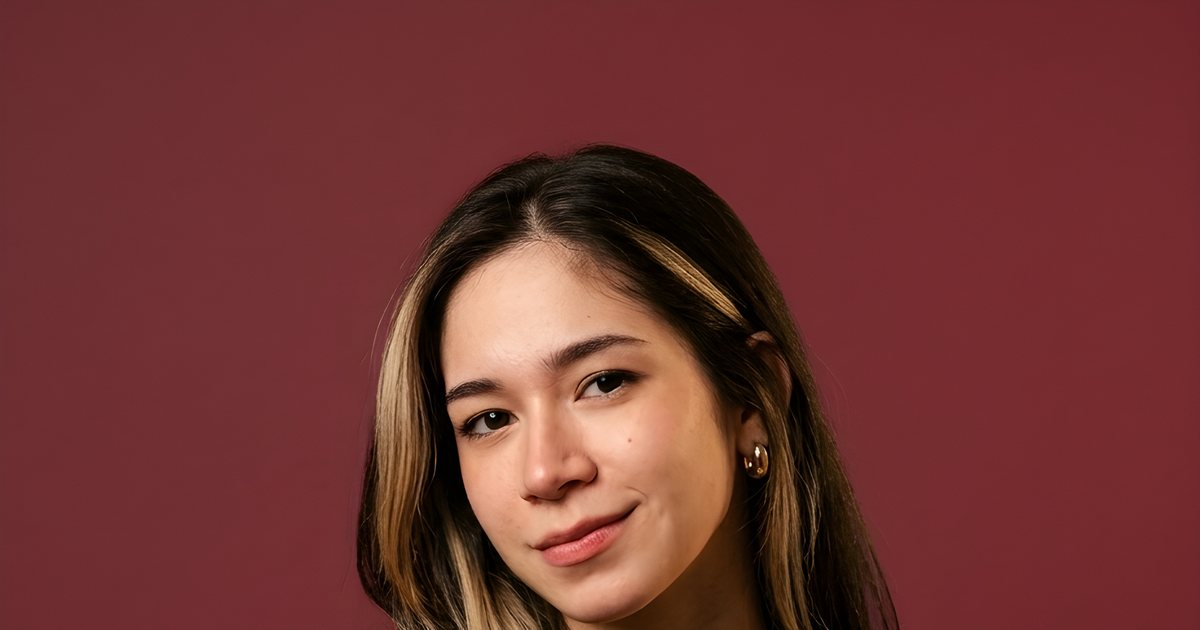
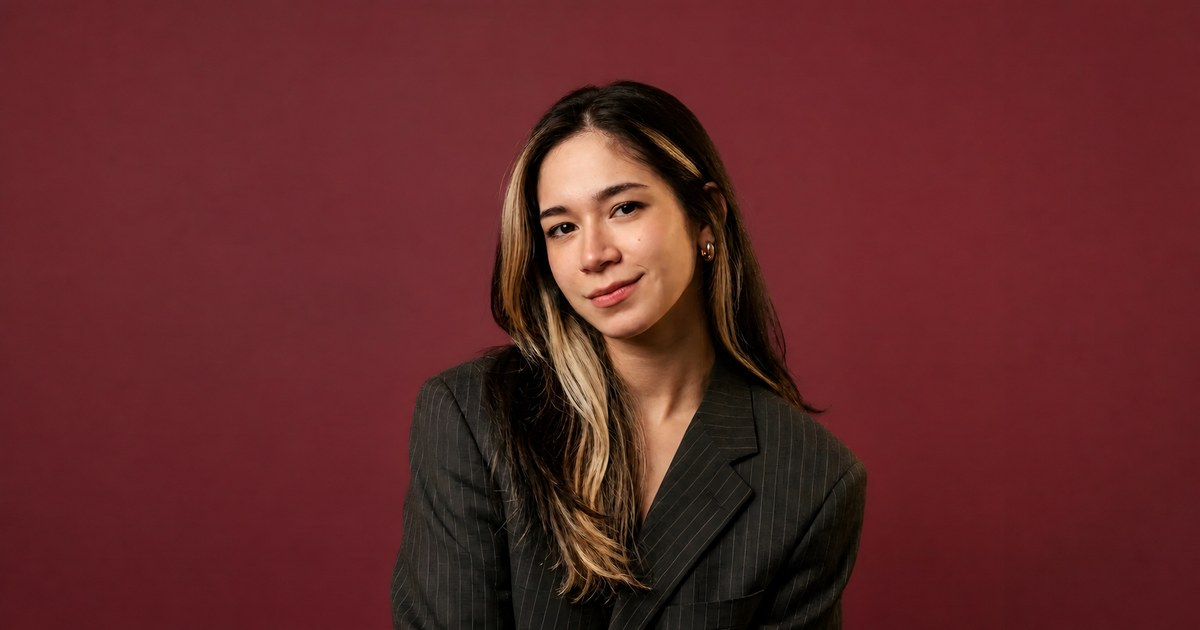
feat(seo): optimize WhatsApp sharing preview

Changed region(s): [[0.2775, 0.1206, 1.0, 1.0], [0.0, 0.8746, 0.2467, 1.0], [0.9867, 0.6635, 1.0, 0.6937]]

diff --git a/index.html b/index.html
@@ -16,7 +16,10 @@
       property="og:description"
       content="Um espaço para compreender quem você é e construir novos sentidos."
     />
-    <meta property="og:image" content="https://cecilianoda.github.io/og-cecilia.jpg" />
+    <meta property="og:image" content="https://cecilianoda.github.io/og-cecilia.jpg?v=2" />
+    <meta property="og:image:type" content="image/jpeg" />
+    <meta property="og:image:width" content="1200" />
+    <meta property="og:image:height" content="630" />
     <meta property="og:image:alt" content="Cecília Noda, psicóloga clínica" />
     <meta name="twitter:card" content="summary_large_image" />
     <meta name="twitter:title" content="Cecília Noda | Psicóloga Clínica" />
@@ -24,7 +27,7 @@
       name="twitter:description"
       content="Um espaço para compreender quem você é e construir novos sentidos."
     />
-    <meta name="twitter:image" content="https://cecilianoda.github.io/og-cecilia.jpg" />
+    <meta name="twitter:image" content="https://cecilianoda.github.io/og-cecilia.jpg?v=2" />
     <link rel="canonical" href="https://cecilianoda.github.io/" />
     <link rel="icon" href="/favicon.svg" type="image/svg+xml" />
     <title>Cecília Noda | Psicóloga Clínica</title>

diff --git a/CHANGELOG.md b/CHANGELOG.md
@@ -13,6 +13,7 @@ Todas as alterações relevantes deste projeto serão documentadas neste arquivo
 
 ### Alterado
 
+- Otimizada a imagem de compartilhamento para recortes do WhatsApp em diferentes dispositivos.
 - Centralizados os dados institucionais da profissional.
 - Separados os estilos da página inicial em módulos menores.
 - Simplificada a inicialização com a remoção do `ThemeProvider` não utilizado.
